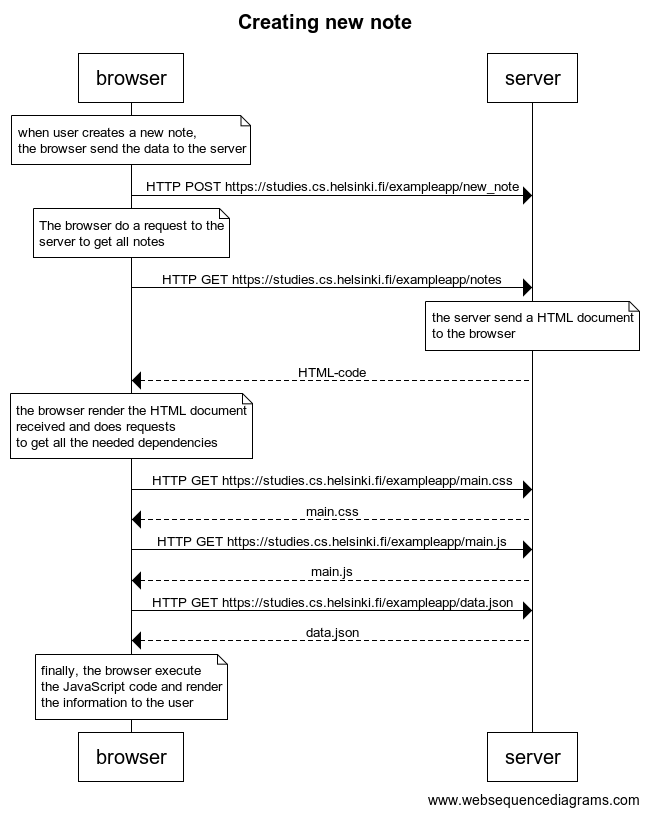
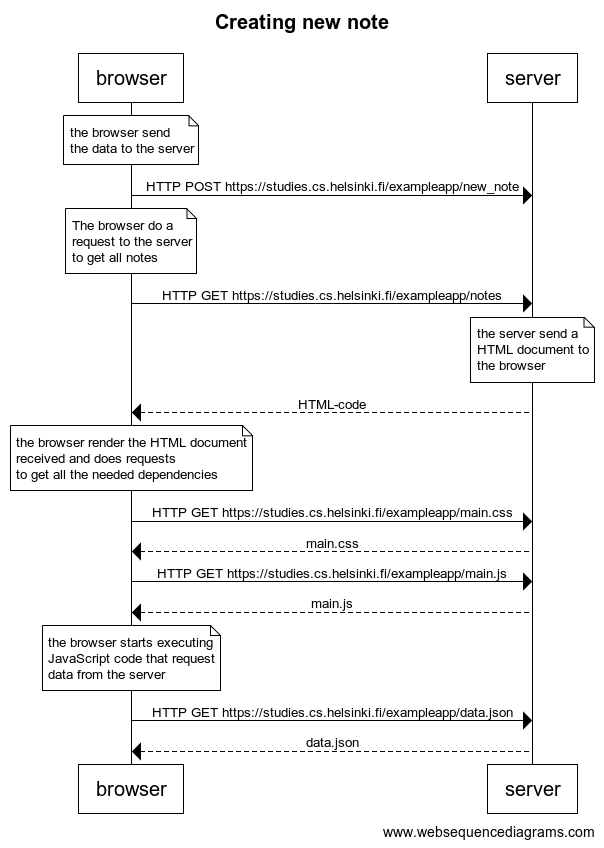
Updated 04-newNote exercise

diff --git a/part0/04-newNote/readme.md b/part0/04-newNote/readme.md
@@ -20,22 +20,24 @@ Code to generate diagram:
 title Creating new note
 
 note over browser:
-when user creates a new note,
-the browser send the data to the server
+the browser send
+the data to the server
 end note
 
 browser->server: HTTP POST https://studies.cs.helsinki.fi/exampleapp/new_note
 
 note over browser:
-The browser do a request to the 
-server to get all notes
+The browser do a 
+request to the server
+to get all notes
 end note
 
 browser->server: HTTP GET https://studies.cs.helsinki.fi/exampleapp/notes
 
 note over server:
-the server send a HTML document
-to the browser
+the server send a 
+HTML document to 
+the browser
 end note
 
 server-->browser: HTML-code
@@ -50,14 +52,16 @@ browser->server: HTTP GET https://studies.cs.helsinki.fi/exampleapp/main.css
 server-->browser: main.css
 browser->server: HTTP GET https://studies.cs.helsinki.fi/exampleapp/main.js
 server-->browser: main.js
+
+note over browser:
+the browser starts executing
+JavaScript code that request
+data from the server
+end note
+
 browser->server: HTTP GET https://studies.cs.helsinki.fi/exampleapp/data.json
 server-->browser: data.json
 
-note over browser:
-finally, the browser execute
-the JavaScript code and render
-the information to the user
-end note
 ```
 
-![Creating new note](./img/creating_new_note.png "Optional title")
+![Creating new note diagram](./img/creating_new_note.png "Creating new note diagram")
